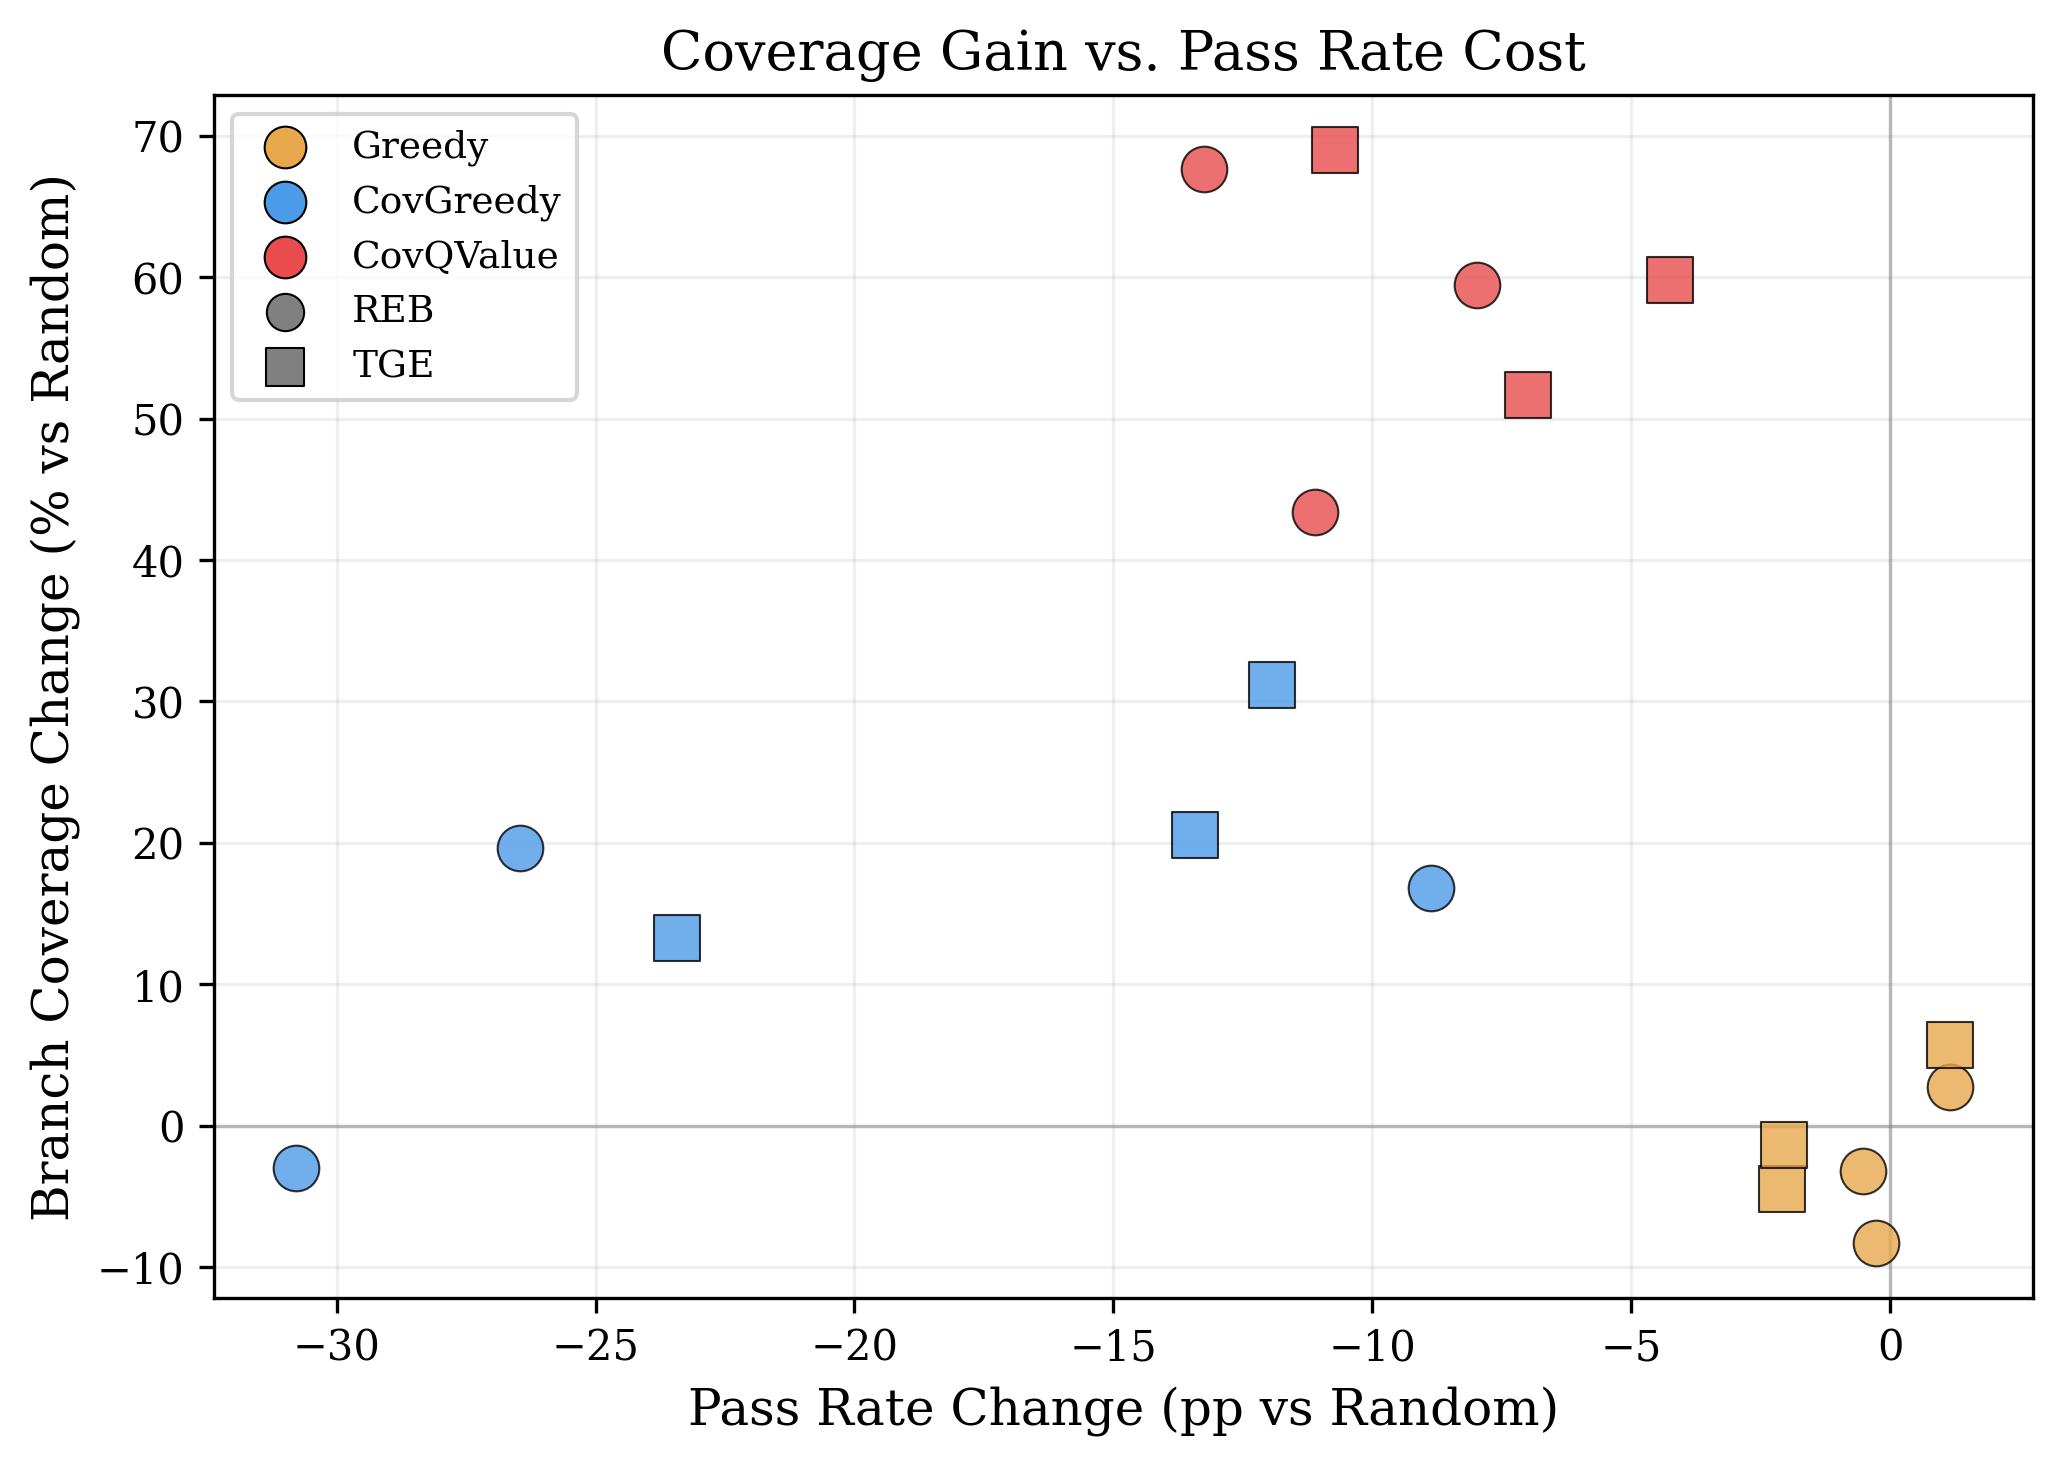
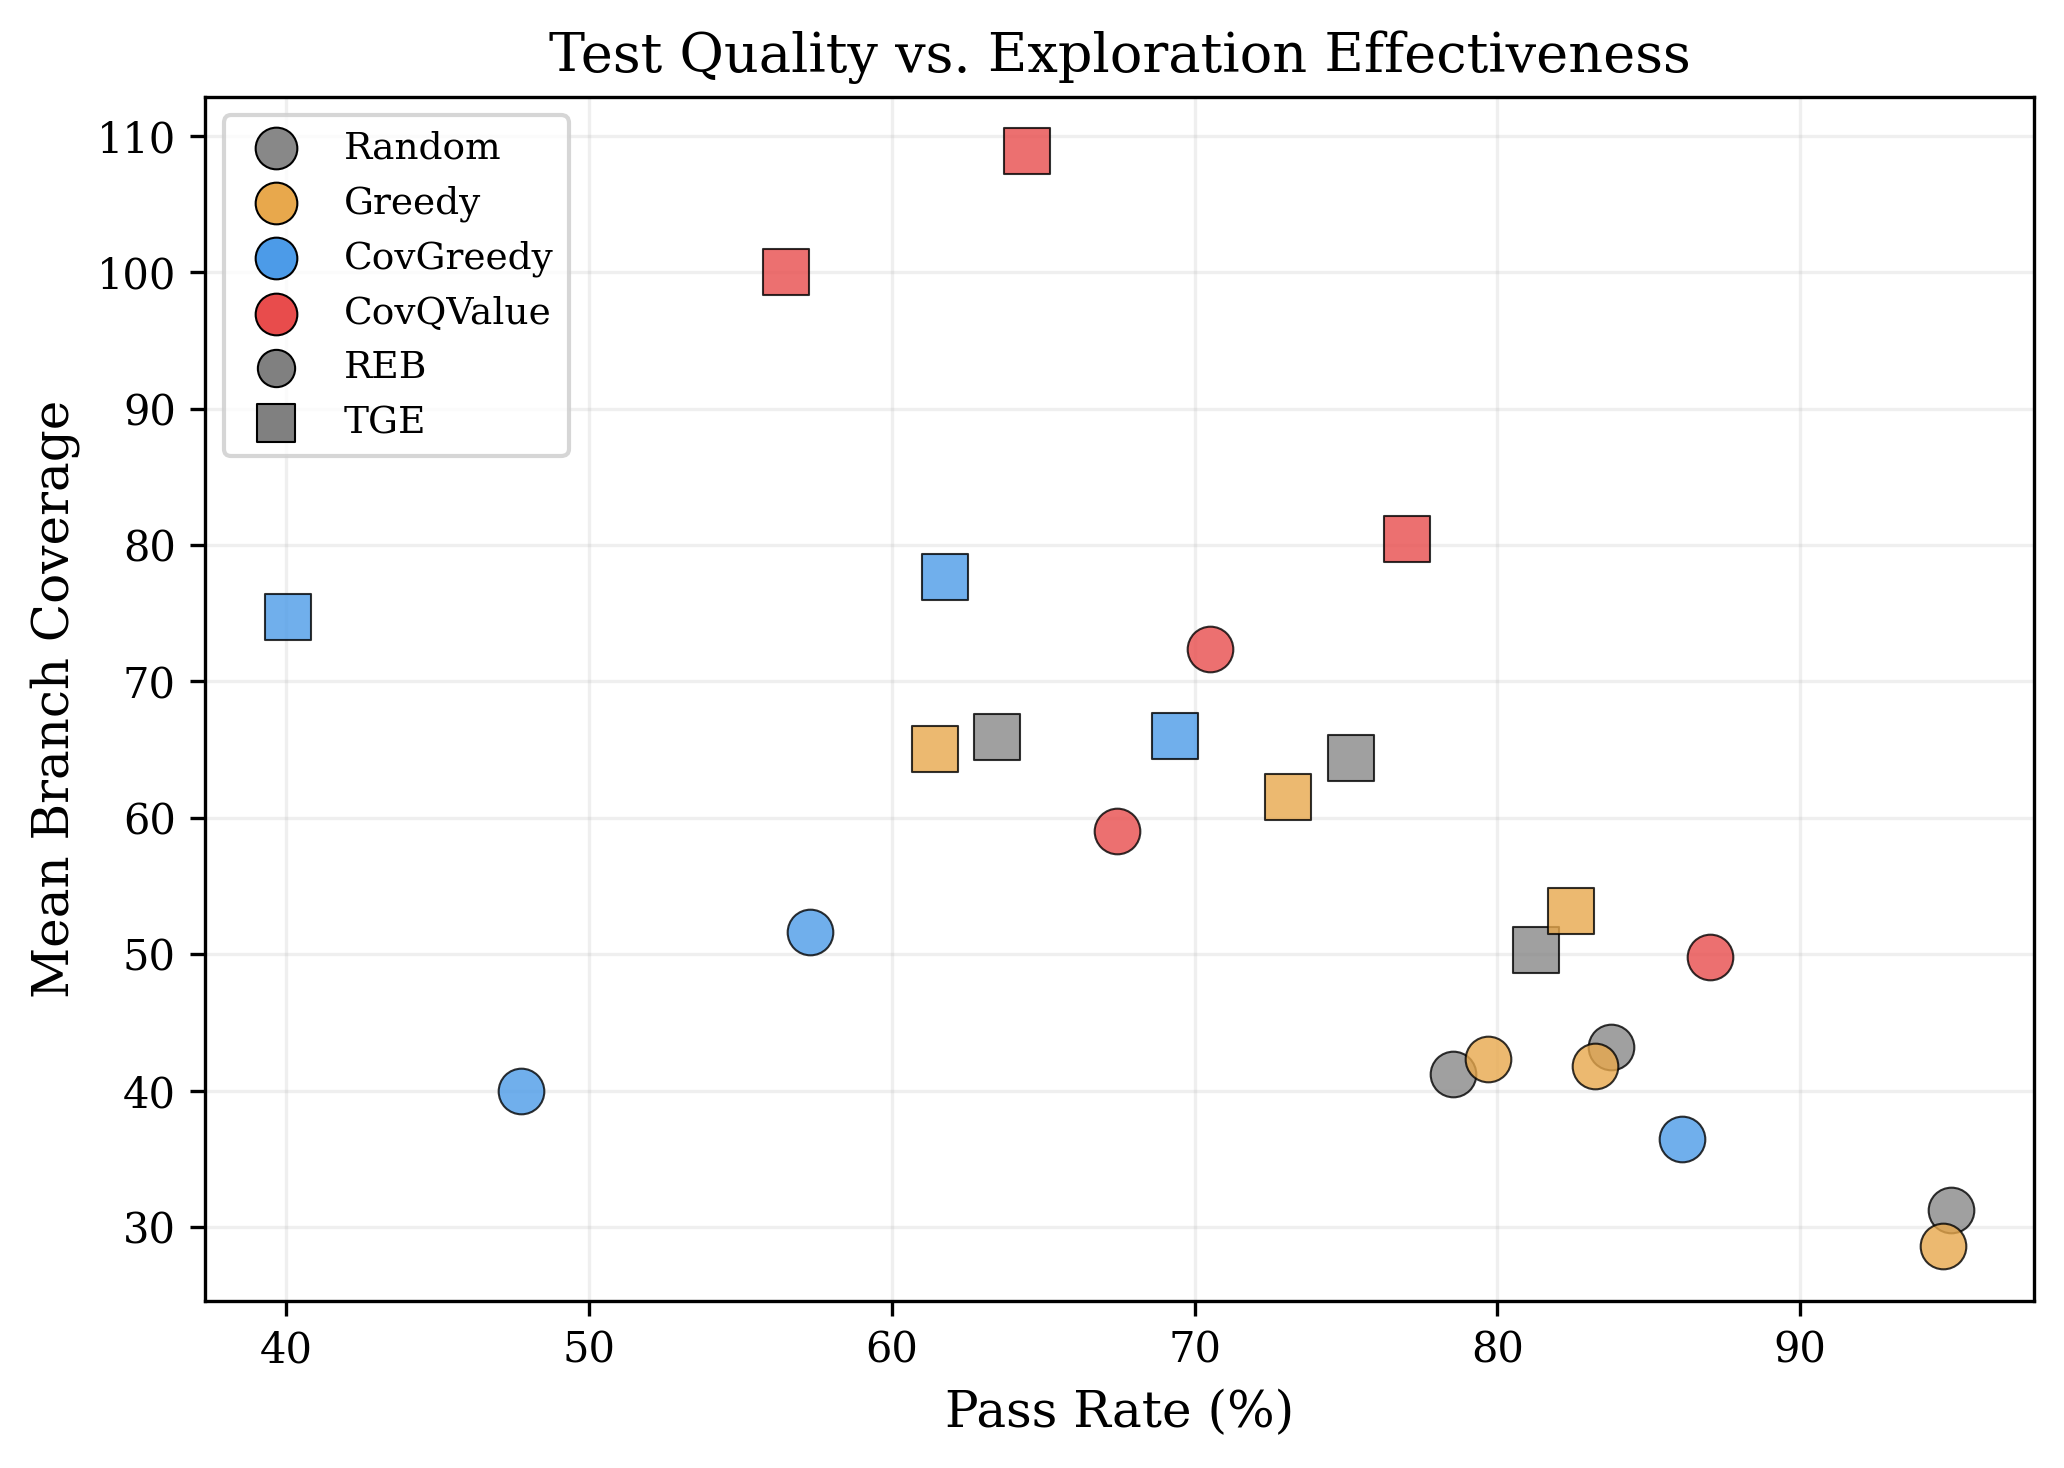
Fig4: absolute pass rate vs coverage scatter (no Random baseline comparison)
Each dot = (strategy, model, benchmark). Shows CovQValue consistently
in upper region (highest coverage) across all pass rate levels.

diff --git a/plots/paper_figures.py b/plots/paper_figures.py
@@ -251,25 +251,16 @@ def fig_per_repo(data):
 # ---------------------------------------------------------------------------
 
 def fig_pass_rate_vs_coverage(data):
-    """Relative change from Random: coverage gain vs pass rate cost."""
+    """Pass rate vs coverage scatter: each point = (strategy, model, benchmark)."""
     fig, ax = plt.subplots(figsize=(7, 5))
 
-    # Compute relative changes for each (strategy, model, benchmark)
-    other_strats = [s for s in STRATEGIES if s != "random"]
-
     for bench_key, marker in [("repo_explore_bench", "o"), ("testgeneval", "s")]:
-        for model_key, (model_name, _) in MODELS.items():
+        for model_key in MODELS:
             if model_key not in data[bench_key]:
                 continue
             results = data[bench_key][model_key]["results"]
 
-            # Get random baseline
-            random_br = np.mean([r["strategies"]["random"]["final"]
-                                for r in results if "random" in r["strategies"]])
-            random_pr = np.mean([r["strategies"]["random"].get("pass_rate", 0)
-                                for r in results if "random" in r["strategies"]]) * 100
-
-            for s in other_strats:
+            for s in STRATEGIES:
                 vals_br = [r["strategies"][s]["final"] for r in results
                           if s in r["strategies"]]
                 vals_pr = [r["strategies"][s].get("pass_rate", 0) for r in results
@@ -280,19 +271,12 @@ def fig_pass_rate_vs_coverage(data):
                 mean_br = np.mean(vals_br)
                 mean_pr = np.mean(vals_pr) * 100
 
-                pct_br = ((mean_br - random_br) / random_br) * 100
-                pct_pr = mean_pr - random_pr  # absolute change in pass rate
-
-                ax.scatter(pct_pr, pct_br, color=STRATEGY_COLORS[s],
+                ax.scatter(mean_pr, mean_br, color=STRATEGY_COLORS[s],
                           marker=marker, s=120, alpha=0.8,
                           edgecolors="black", linewidths=0.5, zorder=3)
 
-    # Add reference lines
-    ax.axhline(0, color="gray", linewidth=0.8, linestyle="-", alpha=0.5)
-    ax.axvline(0, color="gray", linewidth=0.8, linestyle="-", alpha=0.5)
-
     # Legend
-    for s in other_strats:
+    for s in STRATEGIES:
         ax.scatter([], [], color=STRATEGY_COLORS[s], label=STRATEGY_LABELS[s],
                   s=100, edgecolors="black", linewidths=0.5)
     ax.scatter([], [], marker="o", color="gray", label="REB", s=80,
@@ -300,9 +284,9 @@ def fig_pass_rate_vs_coverage(data):
     ax.scatter([], [], marker="s", color="gray", label="TGE", s=80,
               edgecolors="black", linewidths=0.5)
 
-    ax.set_xlabel("Pass Rate Change (pp vs Random)")
-    ax.set_ylabel("Branch Coverage Change (% vs Random)")
-    ax.set_title("Coverage Gain vs. Pass Rate Cost")
+    ax.set_xlabel("Pass Rate (%)")
+    ax.set_ylabel("Mean Branch Coverage")
+    ax.set_title("Test Quality vs. Exploration Effectiveness")
     ax.legend(loc="upper left", fontsize=9)
     ax.grid(True, alpha=0.2)
 
